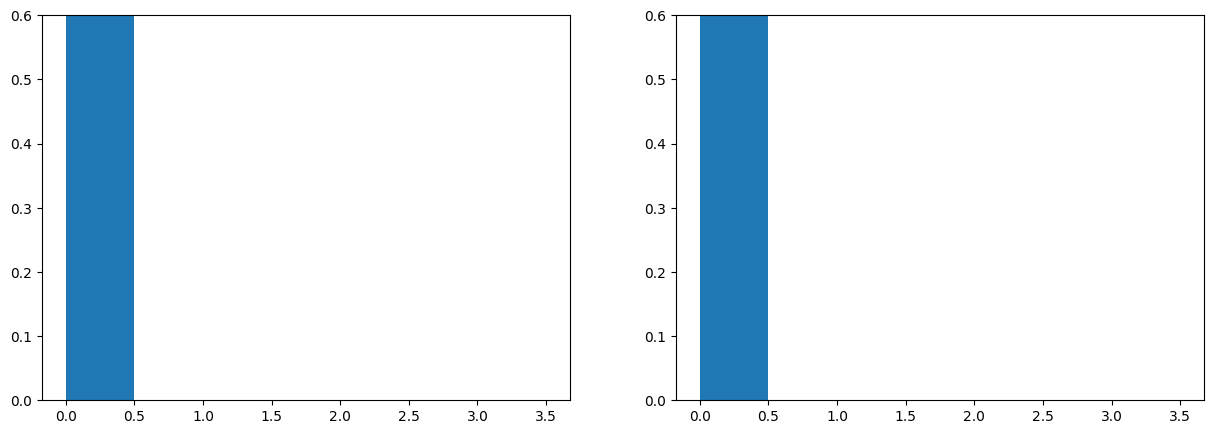
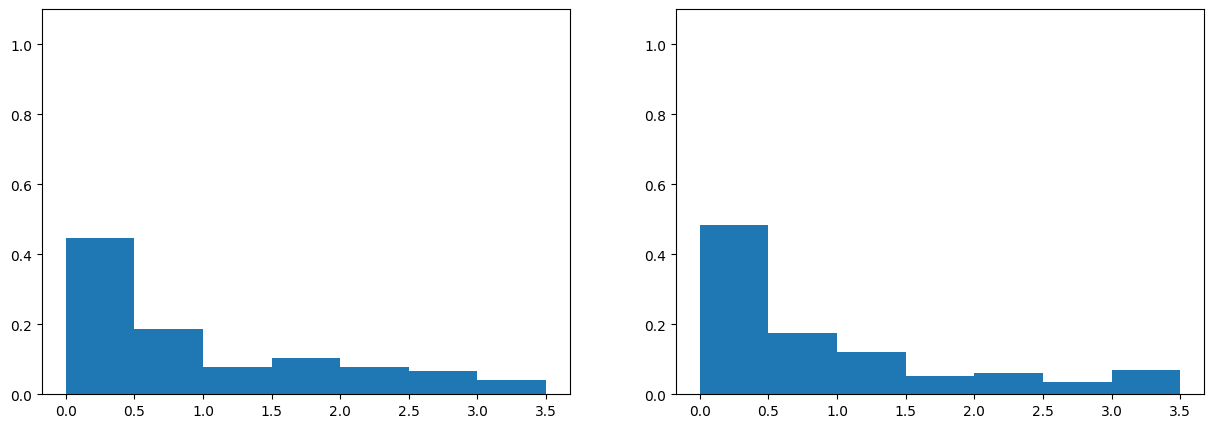
runnable

diff --git a/src/rl_pipeline/ska_env.py b/src/rl_pipeline/ska_env.py
@@ -23,7 +23,7 @@ class InterferometerEnv(gym.Env):
     metadata = {"render_modes": ["human"], "name": "rps_v2"}
 
     def __init__(self, target_sensitivity, target_resolution,
-                 num_nodes=197, num_arrays=2,
+                 num_nodes, num_arrays=2,
                  coordinate_file=r"/share/nas2/lislaam/masters_project/src/dataset/ska_xy_coordinates.csv", 
                  render_mode='human'):
         """
@@ -38,8 +38,8 @@ class InterferometerEnv(gym.Env):
         self.num_arrays = num_arrays
         self.target_sensitivity = target_sensitivity # Does nothing
         self.target_resolution = target_resolution # Does nothing yet
-        self.weighting_regime = None
-        self.coordinates = np.genfromtxt(coordinate_file, delimiter=',') # Needs to be CPU for plotting
+        self.coords = np.genfromtxt(coordinate_file, delimiter=',') # All antennae
+        self.coordinates = self.coords[0:self.num_nodes,:] # self.coords[np.random.choice(self.coords.shape[0], num_nodes, replace=False), :] # Needs to be CPU for plotting
 
         # optional: we can define the observation and action spaces here as attributes to be used in their corresponding methods
         self.action_space = torch.eye(self.num_nodes)[torch.randperm(self.num_nodes)]  # Example action space
@@ -59,9 +59,12 @@ class InterferometerEnv(gym.Env):
         #return Discrete(self.graph.number_of_nodes()) # {0....196} # Change to permutation space
     
     def calculate_rewards(self):
-        jensen_shannon = compute_jensen(self.hists[0], self.hists[1]) # Symmetric
-        self.reward = - jensen_shannon 
-        wandb.log({"J-S Divergence": jensen_shannon})
+        avg_hist = np.mean(self.hists, axis=0)
+        self.reward = 0
+        for hist in self.hists:
+            jensen_shannon = compute_jensen(hist, avg_hist) # Symmetric
+            self.reward -= jensen_shannon # -ve sum of J-S divergences
+        #wandb.log({"J-S Divergence": jensen_shannon})
         return None
 
     def close(self):
@@ -78,6 +81,7 @@ class InterferometerEnv(gym.Env):
         self.info = {}
         self.state = torch.tensor(self.observation_space.sample(), device=device).unsqueeze(0).unsqueeze(-1)
         self.observation = self.observation_space.sample()
+        #self.coordinates = self.coords[np.random.choice(self.coords.shape[0], self.num_nodes, replace=False), :] # New antennas
 
         return self.state, self.info
 
@@ -92,8 +96,9 @@ class InterferometerEnv(gym.Env):
                                     density=True)[0] for i in range(self.num_arrays)]
 
         self.hists = [self.hists[i] / np.sum(self.hists[i]) for i in range(len(self.hists))] # Normalise histograms
-        #import pdb; pdb.set_trace()
+
         self.calculate_rewards() # Also updates self.reward
+        wandb.log({'Reward': self.reward.item()})
         self.observation = self.state # observe the current state (MDP not POMDP)
 
         if self.render_mode == "human":
@@ -129,7 +134,7 @@ class InterferometerEnv(gym.Env):
                 else:
                     for i in range(self.num_arrays):
                         axes[i].bar(self.bin_centers, self.hists[i], align='center', width=0.5)
-                        axes[i].set_ylim(0, 0.6)
+                        axes[i].set_ylim(0, 1.1)
             
             else:
                 fig, axes = plt.subplots(2, int((self.num_arrays+1)/2), figsize=(15, 5))

diff --git a/src/rl_pipeline/run_experiment.py b/src/rl_pipeline/run_experiment.py
@@ -24,21 +24,23 @@ def main(cfg):
     num_agents = cfg.num_agents
     num_episodes = cfg.episodes
     episode_length = cfg.episode_length
+    """
     try:
         agent, train, exploration = REGIMES[cfg.agent_type]
     except IndexError:
         print("Agent type not valid. Choose from 'Random','SGD','LOLA','PPO'")
+    """
 
-    env = InterferometerEnv(cfg.target_sensitivity, cfg.target_resolution)
+    env = InterferometerEnv(cfg.target_sensitivity, cfg.target_resolution, cfg.num_antennas)
     
-    if cfg.agent_type == 'SPG':
+    if cfg.agent_type == 'SPG' or cfg.agent_type == 'SPG_MeerKAT':
         train_SPG(env, num_episodes, episode_length, cfg.actor_lr, cfg.critic_lr,
                 cfg.actor_lr_decay_step, cfg.actor_lr_decay_rate, 
                 cfg.critic_lr_decay_step, cfg.critic_lr_decay_rate,
                 cfg.epsilon, cfg.epsilon_step, cfg.epsilon_decay,
                 cfg.train_step, cfg.batch_size, cfg.max_grad_norm)
 
-
+    """
     ######### These are old multi-agent options and may not work
     elif cfg.agent_type == ('SGD' or 'Random' or 'LOLA'):
         agents = [agent(num_actions=env.num_nodes, learning_rate=cfg.learning_rate,
@@ -53,5 +55,5 @@ def main(cfg):
                         batch_size=cfg.batch_size) for i in range(num_agents)]
         train(env, agents, num_episodes=num_episodes, episode_length=episode_length,
                         agent_ids=env.possible_agents)
-
+"""
 main()

diff --git a/src/rl_pipeline/train_agents.py b/src/rl_pipeline/train_agents.py
@@ -50,7 +50,7 @@ def train_SPG(env, num_episodes, episode_length, actor_lr, critic_lr,
             psi, action = actor(states)
             #print(action)
 
-            # Epsilon greedy exploration
+            # Epsilon exploration
             if np.random.rand() < epsilon:
             # Add noise in the form of 2-exchange neighborhoods
                 for r in range(2):
@@ -69,7 +69,7 @@ def train_SPG(env, num_episodes, episode_length, actor_lr, critic_lr,
                 epsilon -= epsilon_decay
 
             #import pdb; pdb.set_trace()
-            wandb.log({'States': states.cpu().numpy()})
+            #wandb.log({'States': states.cpu().numpy()})
                        
             # apply the permutation to the input
             #solutions = torch.matmul(torch.transpose(states, 1, 2), action)
@@ -124,8 +124,8 @@ def train_SPG(env, num_episodes, episode_length, actor_lr, critic_lr,
              #   torch.save(actor, os.path.join(save_dir, 'actor-epoch-{}.pt'.format(i+1)))
               #  torch.save(critic, os.path.join(save_dir, 'critic-epoch-{}.pt'.format(i+1)))
         env.close()
-
-        wandb.log({'Episode Reward': total_reward.item()/episode_length})
+        log = total_reward/episode_length
+        wandb.log({'Episode Reward': log})
         print(f"Episode {episode+1}/{num_episodes}, Total Rewards: {total_reward.item()/episode_length}\n")
 
 
